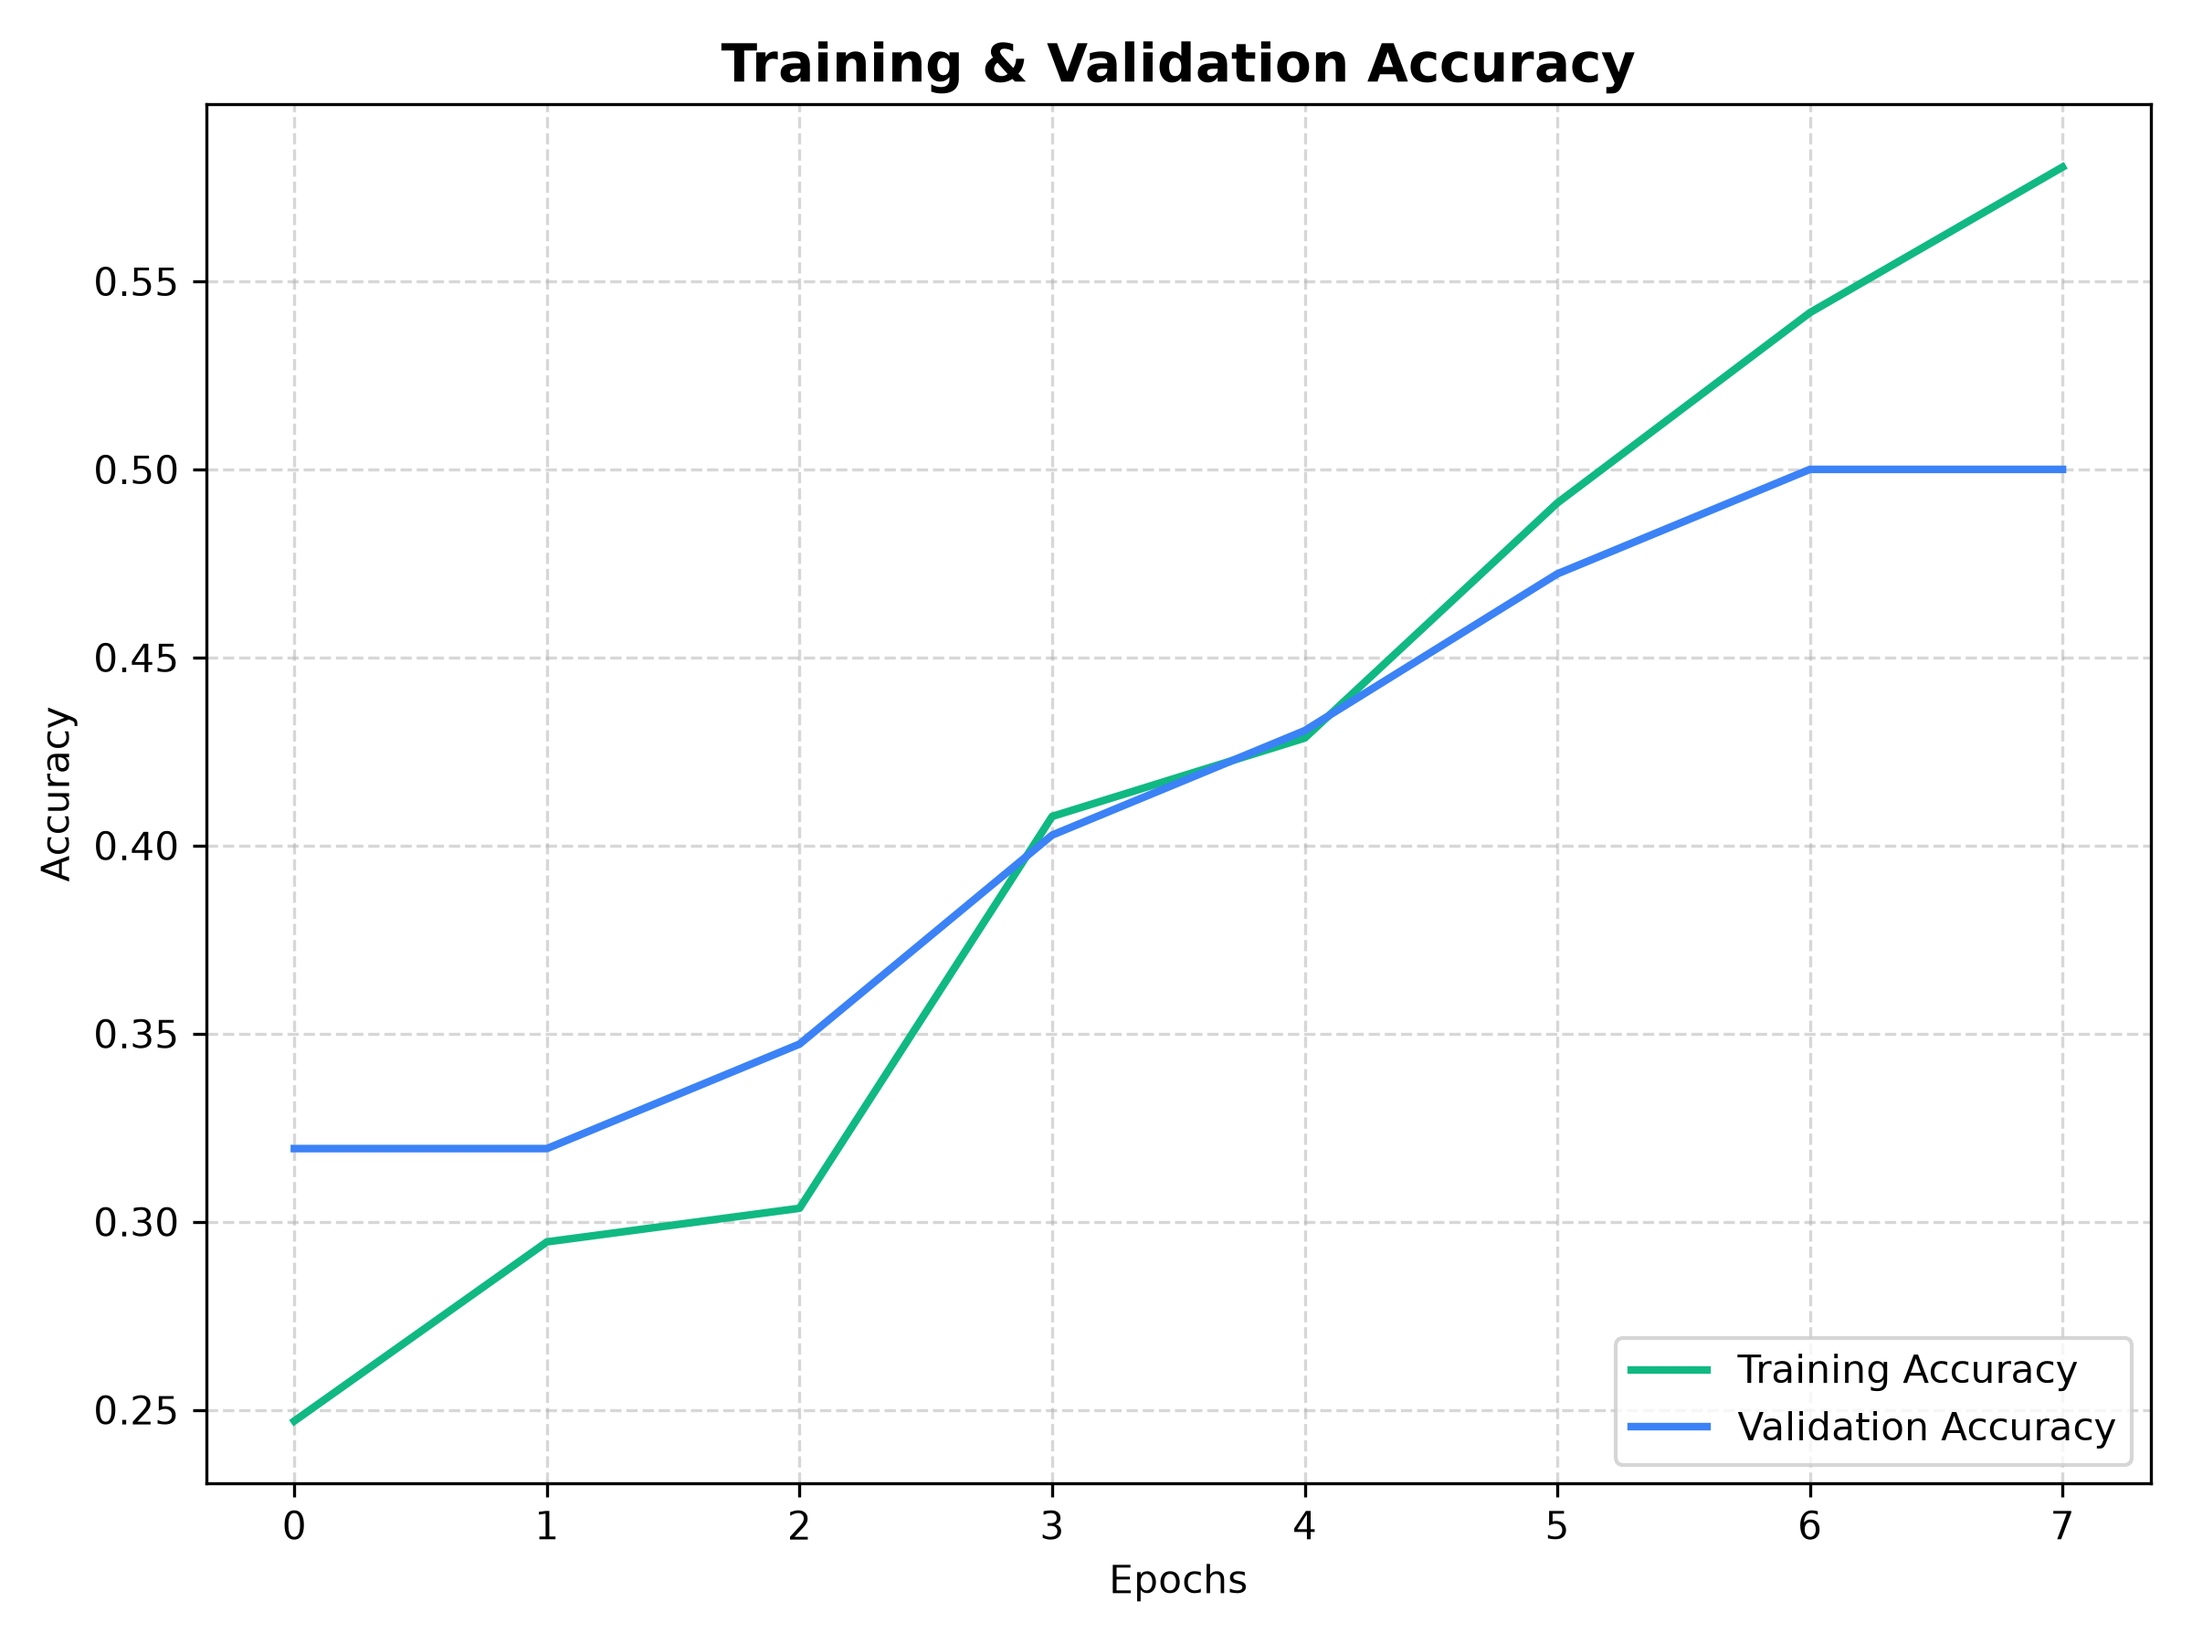
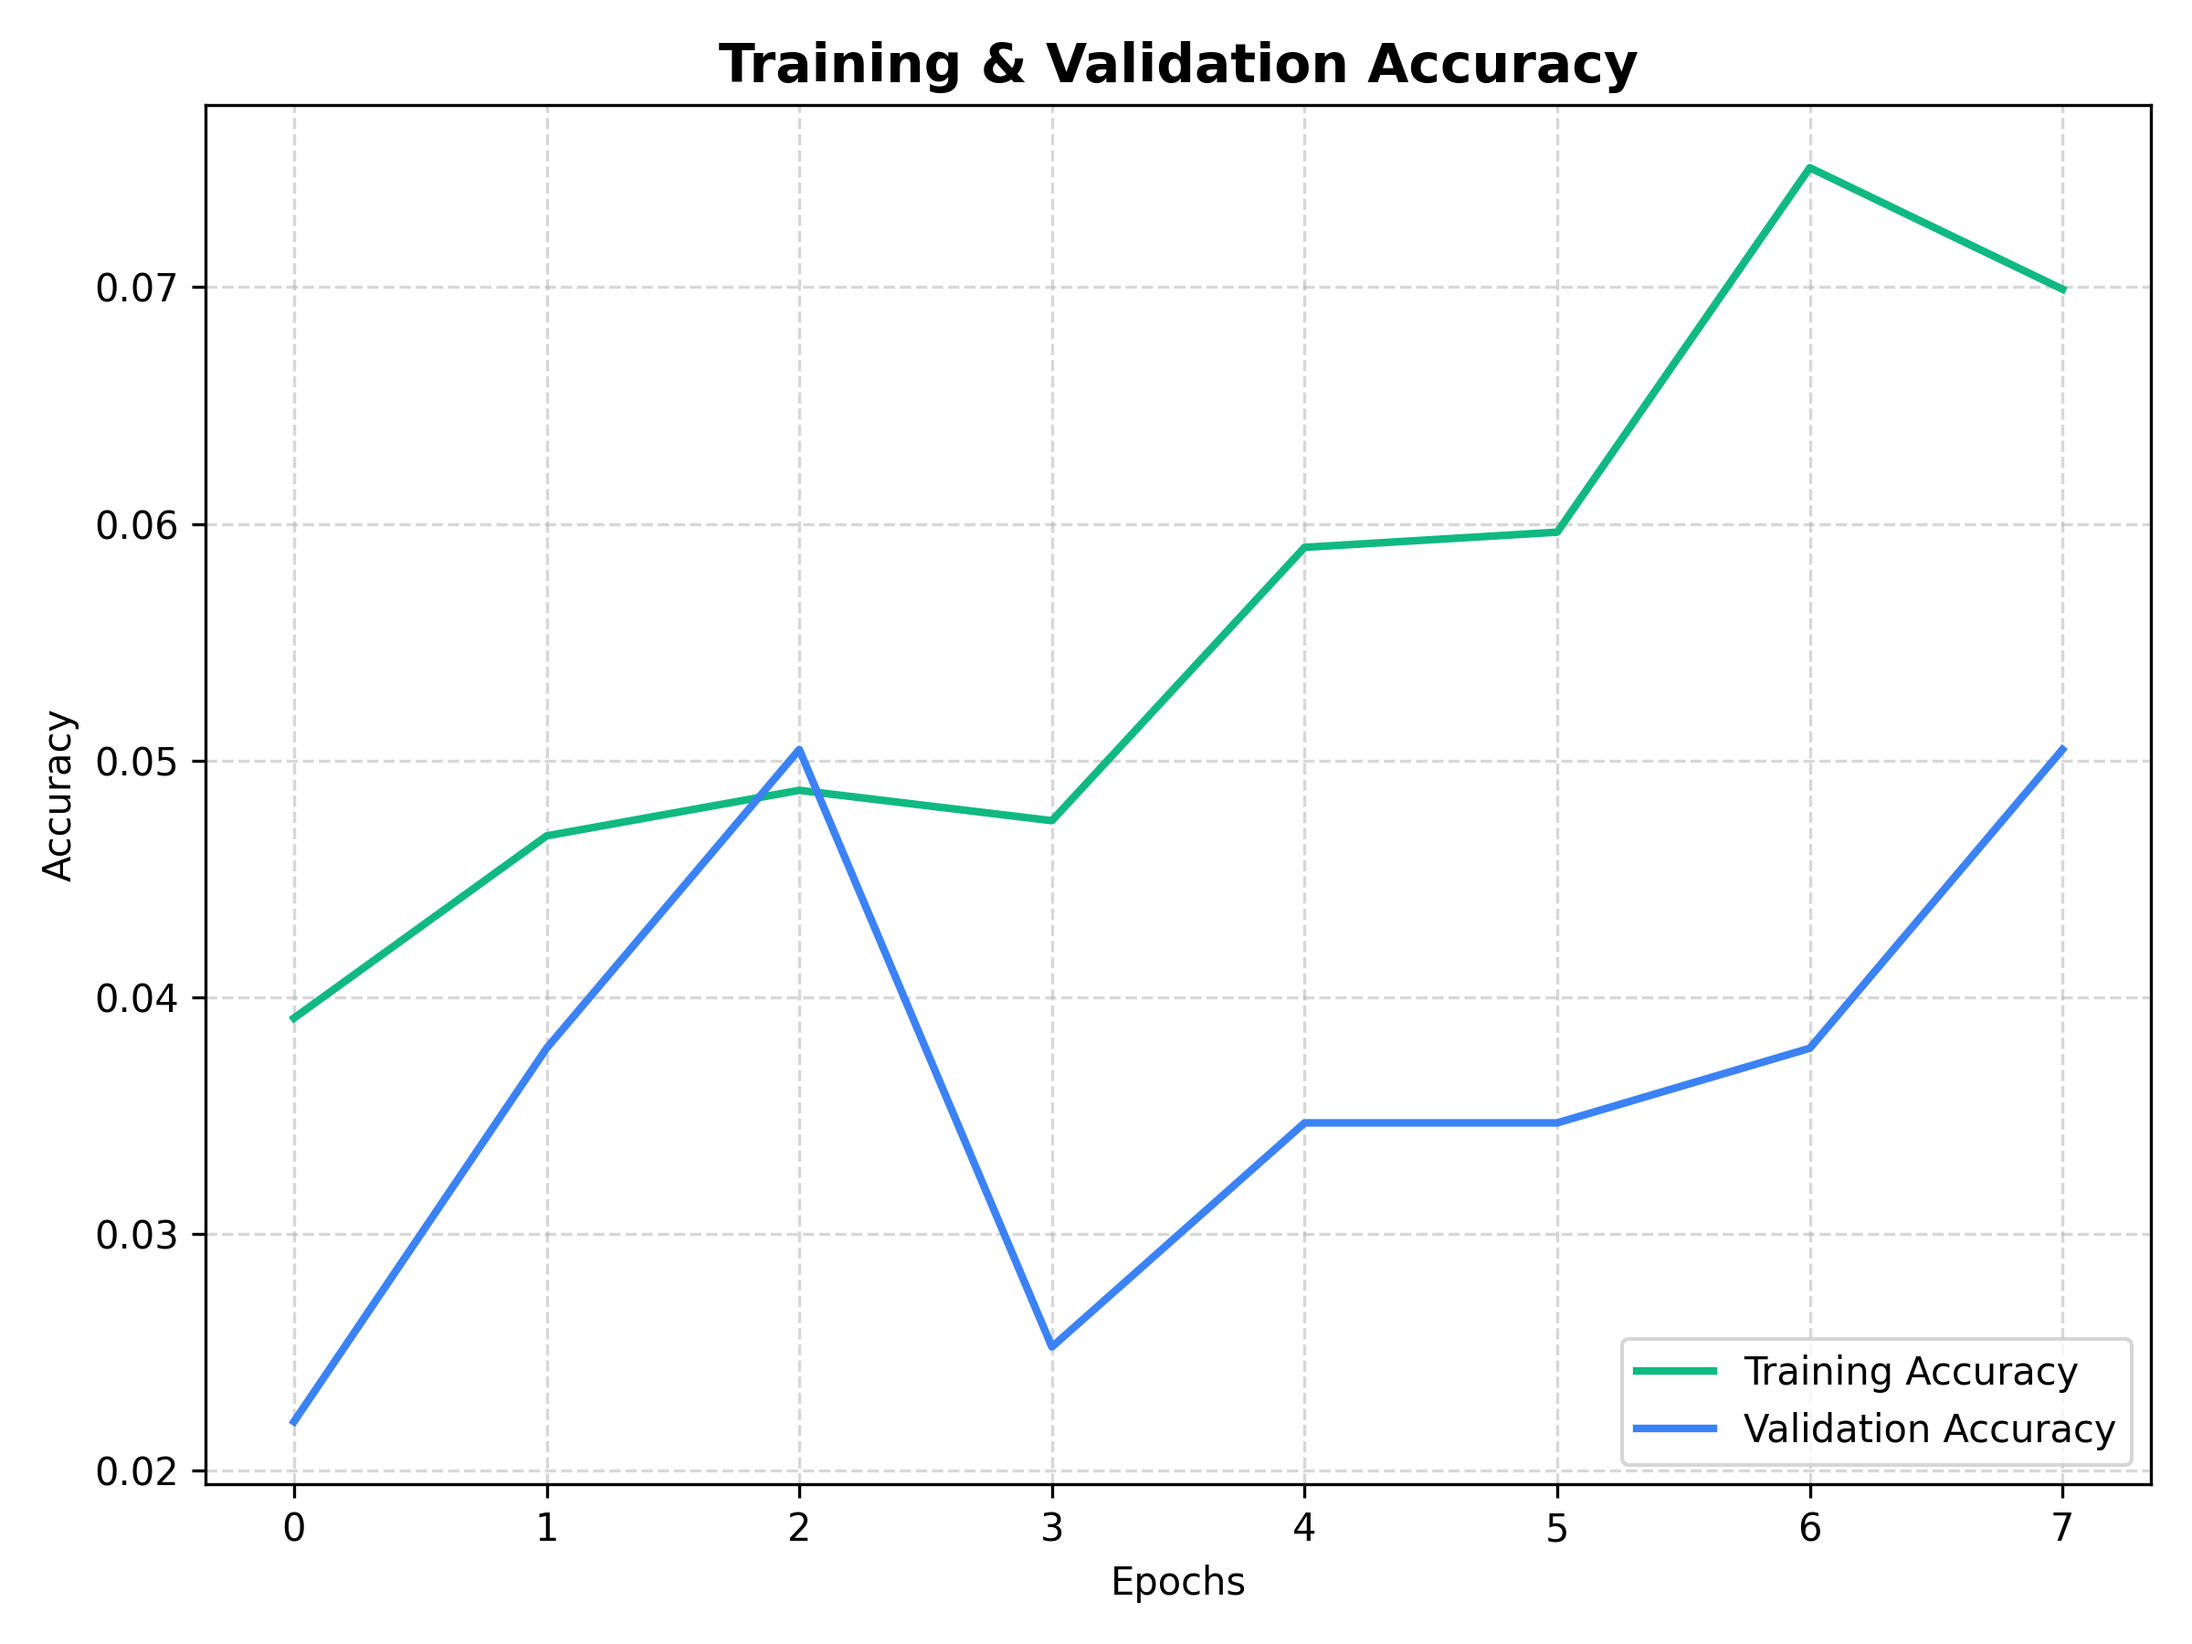
fixed ml model training and loading

diff --git a/ml-service/src/main.py b/ml-service/src/main.py
@@ -10,7 +10,9 @@ from fastapi import FastAPI, File, UploadFile, HTTPException
 from fastapi.middleware.cors import CORSMiddleware
 
 MODEL_VERSION = "mobilenetv2-v2"
-MODEL_PATH = 'models/krishicare_mobilenetv2.h5'
+MODEL_PATH_KERAS = 'models/krishicare_mobilenetv2.keras'
+MODEL_PATH_H5 = 'models/krishicare_mobilenetv2.h5'
+MODEL_PATH_SAVED = 'models/krishicare_mobilenetv2'
 CLASS_NAMES_PATH = 'src/class_names.json'
 
 model = None
@@ -29,28 +31,31 @@ def make_readable(class_name):
 async def lifespan(app: FastAPI):
     """Pre-load ML model and class labels at application startup."""
     global model, class_names
-    model_path = MODEL_PATH
     class_names_path = CLASS_NAMES_PATH
     
     print(f"Starting ML Service - Model Version: {MODEL_VERSION}")
-    print(f"Looking for model at: {model_path}")
     print(f"Looking for class names at: {class_names_path}")
     
-    if os.path.exists(model_path):
-        try:
-            print("Loading trained MobileNetV2 model...")
-            model = tf.keras.models.load_model(
-                model_path,
-                compile=False,
-                safe_mode=False,
-            )
-            print(f"Model loaded successfully from {model_path}")
-        except Exception as e:
-            print(f"Error loading model: {e}")
-            print("Model will be disabled until a valid model file is provided.")
-            model = None
-    else:
-        print(f"Warning: Model not found at '{model_path}'. Prediction endpoint will be disabled.")
+    # Try loading model from Keras format first, then H5, then SavedModel
+    model_loaded = False
+    for model_path in [MODEL_PATH_KERAS, MODEL_PATH_H5, MODEL_PATH_SAVED]:
+        if os.path.exists(model_path):
+            try:
+                print(f"Loading trained MobileNetV2 model from {model_path}...")
+                model = tf.keras.models.load_model(
+                    model_path,
+                    compile=False,
+                    safe_mode=False,
+                )
+                print(f"Model loaded successfully from {model_path}")
+                model_loaded = True
+                break
+            except Exception as e:
+                print(f"Error loading model from {model_path}: {e}")
+                continue
+    
+    if not model_loaded:
+        print("Warning: No valid model file found. Prediction endpoint will be disabled.")
         print("Please train the model using: python src/train_model.py")
         
     if os.path.exists(class_names_path):

diff --git a/ml-service/src/train_model.py b/ml-service/src/train_model.py
@@ -238,35 +238,19 @@ def main():
     model = build_model()
     model.summary()
 
-    # Training callbacks
-    checkpoint = callbacks.ModelCheckpoint(
-        filepath='models/krishicare_mobilenetv2.h5',
-        monitor='val_loss',
-        save_best_only=True,
-        verbose=1
-    )
-    early_stopping = callbacks.EarlyStopping(
-        monitor='val_loss',
-        patience=5,
-        restore_best_weights=True,
-        verbose=1
-    )
-    reduce_lr = callbacks.ReduceLROnPlateau(
-        monitor='val_loss',
-        factor=0.2,
-        patience=3,
-        min_lr=1e-6,
-        verbose=1
-    )
-
     # Train the neural network
     print("\nStarting model training...")
     history = model.fit(
         train_ds,
         validation_data=val_ds,
         epochs=EPOCHS,
-        callbacks=[checkpoint, early_stopping, reduce_lr]
+        callbacks=[]
     )
+    
+    # Save model in Keras 3 format
+    print("\nSaving trained model...")
+    model.save('models/krishicare_mobilenetv2.keras')
+    print("Model saved successfully in Keras format!")
 
     # Plot metrics
     print("\nGenerating accuracy and loss plots...")

diff --git a/backend/src/main/java/com/krishicare/backend/service/WeatherService.java b/backend/src/main/java/com/krishicare/backend/service/WeatherService.java
@@ -41,7 +41,6 @@ public class WeatherService {
             double humidity = main != null ? ((Number) main.get("humidity")).doubleValue() : 0;
             double temp = main != null ? ((Number) main.get("temp")).doubleValue() : 0;
 
-            @SuppressWarnings("unchecked")
             var weatherList = (java.util.List<?>) data.get("weather");
             String condition = weatherList != null && !weatherList.isEmpty()
                     ? String.valueOf(((Map<?, ?>) weatherList.get(0)).get("main"))
